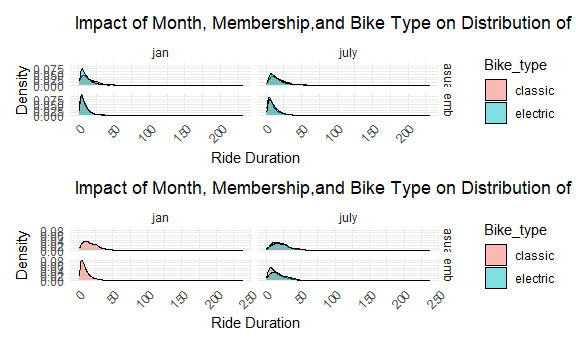
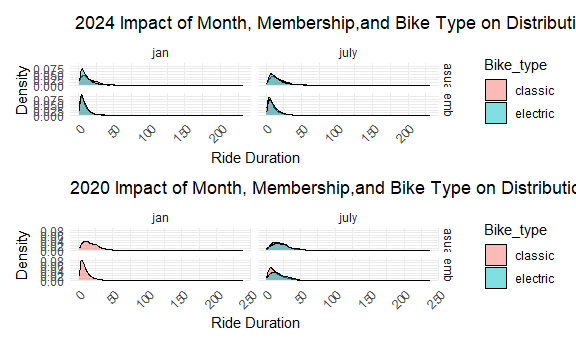
last edit

Changed region(s): [[0.125, 0.5217, 1.0, 0.5797], [0.125, 0.029, 1.0, 0.1159]]

diff --git a/homework3.md b/homework3.md
@@ -84,9 +84,6 @@ ny_noaa %>%
   labs(title = "Mean monthly temperature for each station across years for January and July")
 ```
 
-    ## `summarise()` has grouped output by 'id', 'year'. You can override using the
-    ## `.groups` argument.
-
     ## Warning: Removed 5970 rows containing missing values or values outside the scale range
     ## (`geom_point()`).
 
@@ -112,8 +109,6 @@ hex + ridge
 
     ## Warning: Removed 1136276 rows containing non-finite outside the scale range
     ## (`stat_binhex()`).
-
-    ## Picking joint bandwidth of 3.76
 
 <img src="homework3_files/figure-gfm/unnamed-chunk-5-1.png" width="90%" />
 
@@ -375,12 +370,8 @@ med_duration = combined_years_data %>%
           year= as.numeric(year))%>% 
   group_by(weekdays, month, year) %>% 
   summarise(median_duration = median(duration, na.rm = TRUE))
-```
-
-    ## `summarise()` has grouped output by 'weekdays', 'month'. You can override using
-    ## the `.groups` argument.
-
-``` r
+  
+  
 ggplot(med_duration, aes(x = weekdays, y=median_duration, fill=month)) +
          geom_bar(stat = "identity", position = "dodge")+
   facet_grid(.~year) %>% 
@@ -429,7 +420,7 @@ twenty_four_plot = ggplot(twenty_four, aes(x = duration, fill= rideable_type)) +
          geom_density(alpha = 0.5)+
   facet_grid(member_casual ~ month) +
   labs(
-     title = " Impact of Month, Membership,and Bike Type on Distribution of Ride Duration",
+     title = " 2024 Impact of Month, Membership,and Bike Type on Distribution of Ride Duration",
     x = " Ride Duration",
     y = "Density",
     fill = "Bike_type"
@@ -443,7 +434,7 @@ twenty_twenty_plot = ggplot(twenty_twenty, aes(x = duration, fill= rideable_type
          geom_density(alpha = 0.5)+
   facet_grid(member_casual ~ month) +
       labs(
-     title = " Impact of Month, Membership,and Bike Type on Distribution of Ride Duration",
+     title = "2020 Impact of Month, Membership,and Bike Type on Distribution of Ride Duration",
     x = " Ride Duration",
     y = "Density",
     fill = "Bike_type"
@@ -455,9 +446,7 @@ twenty_twenty_plot = ggplot(twenty_twenty, aes(x = duration, fill= rideable_type
 (twenty_four_plot / twenty_twenty_plot)
 ```
 
-    ## Warning: Groups with fewer than two data points have been dropped.
-
-    ## Warning in max(ids, na.rm = TRUE): no non-missing arguments to max; returning
-    ## -Inf
-
 <img src="homework3_files/figure-gfm/unnamed-chunk-7-1.png" width="90%" />
+
+Path worked the two graphs of 2020 and 2024 to compare differences in
+use of classic and electric bike among casual and member riders.
